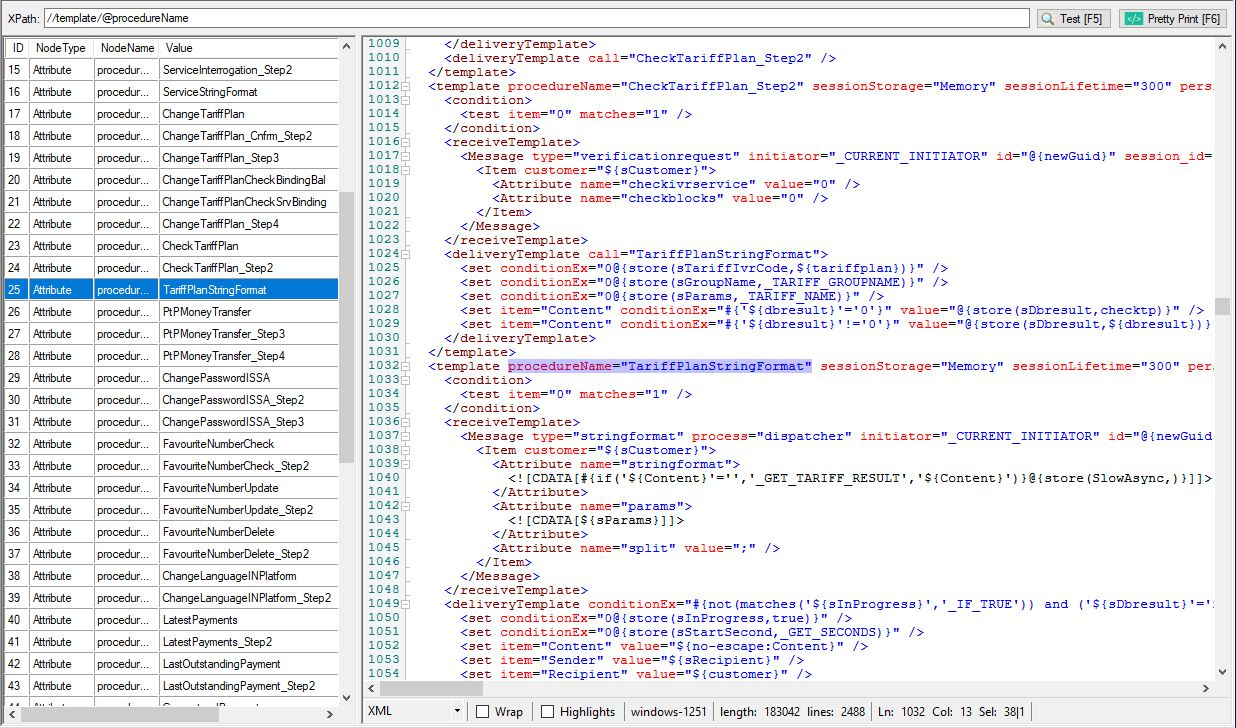
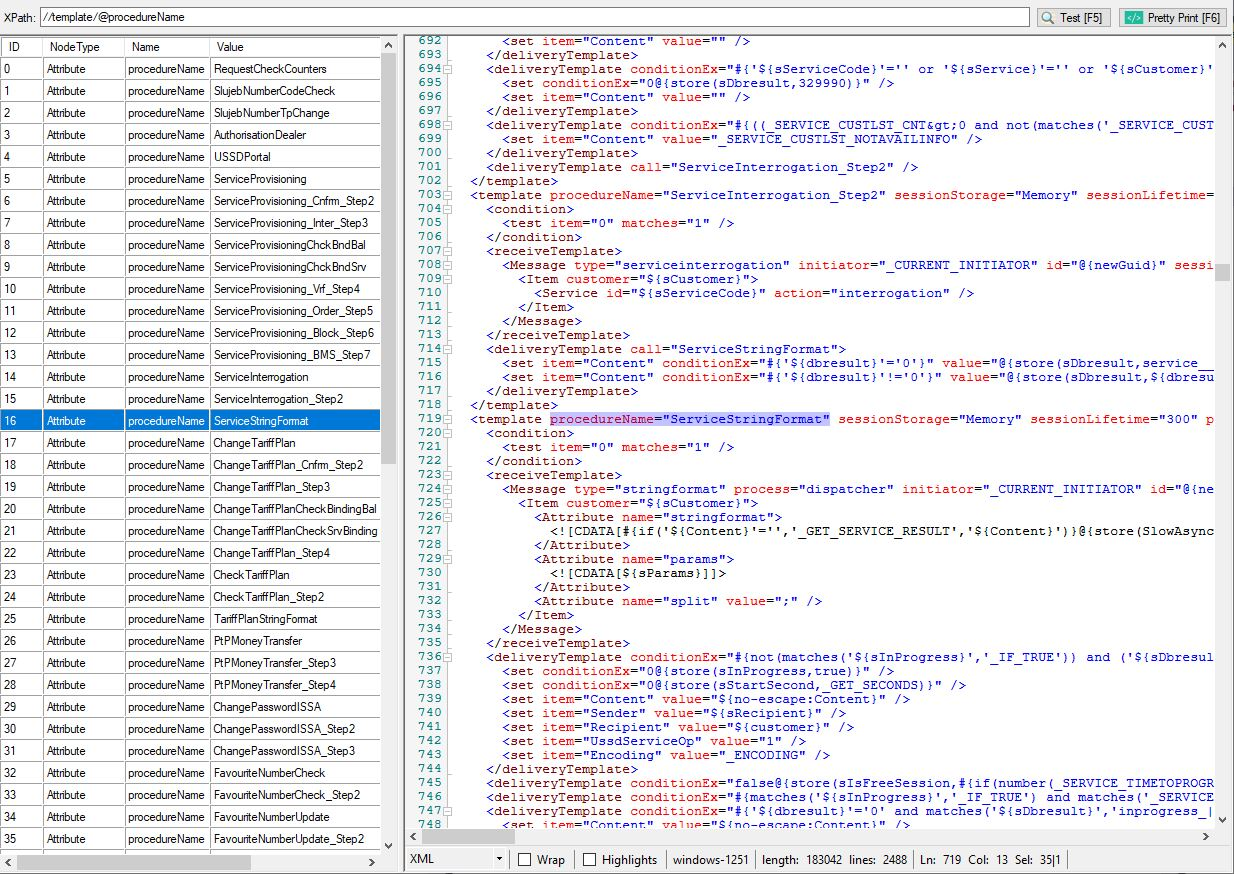
fixed

diff --git a/SPAMassageSaloon/SPAMassageSaloon/AboutWindow.xaml b/SPAMassageSaloon/SPAMassageSaloon/AboutWindow.xaml
@@ -30,7 +30,7 @@
         <Grid.Resources>
             <Style TargetType="Label" x:Key="TopLabel">
                 <Setter Property="FontSize" Value="25"/>
-                <Setter Property="FontFamily" Value="/SPAMassageSaloon;component/Beyond Wonderland.ttf"/>
+                <Setter Property="FontFamily" Value="/SPAMassageSaloon;component/Resources/About/Beyond Wonderland.ttf"/>
                 <Setter Property="Foreground">
                     <Setter.Value>
                         <LinearGradientBrush EndPoint="1,1" StartPoint="0,0">

diff --git a/SPAMassageSaloon/XPathTester/XPathResults.cs b/SPAMassageSaloon/XPathTester/XPathResults.cs
@@ -14,8 +14,8 @@ namespace XPathTester
         [DGVColumn(ColumnPosition.Last, "NodeType")]
         public string NodeType { get; set; }
 
-        [DGVColumn(ColumnPosition.Last, "NodeName")]
-        public string NodeName { get; set; }
+        [DGVColumn(ColumnPosition.Last, "Name")]
+        public string Name { get; set; }
 
         [DGVColumn(ColumnPosition.Last, "Value")]
         public string Value { get; set; }
@@ -41,7 +41,7 @@ namespace XPathTester
                 {
                     ID = result.ID,
                     NodeType = result.NodeType,
-                    NodeName = result.NodeName,
+                    Name = result.NodeName,
                     Value = result.Value,
                     Node = result.Node
                 });

diff --git a/SPAMassageSaloon/SPAMassageSaloon/Properties/Resources.Designer.cs b/SPAMassageSaloon/SPAMassageSaloon/Properties/Resources.Designer.cs
@@ -61,6 +61,16 @@ namespace SPAMassageSaloon.Properties {
         }
         
         /// <summary>
+        ///   Поиск локализованного ресурса типа System.Drawing.Icon, аналогичного (Значок).
+        /// </summary>
+        internal static System.Drawing.Icon about3 {
+            get {
+                object obj = ResourceManager.GetObject("about3", resourceCulture);
+                return ((System.Drawing.Icon)(obj));
+            }
+        }
+        
+        /// <summary>
         ///   Поиск локализованного ресурса типа System.Drawing.Bitmap.
         /// </summary>
         internal static System.Drawing.Bitmap close {

diff --git a/SPAMassageSaloon/SPAMassageSaloon/AboutWindow.xaml.cs b/SPAMassageSaloon/SPAMassageSaloon/AboutWindow.xaml.cs
@@ -1,5 +1,7 @@
 using System.Windows;
+using System.Windows.Media;
 using SPAMassageSaloon.Common;
+using Utils.UIControls;
 
 namespace SPAMassageSaloon
 {
@@ -9,9 +11,17 @@ namespace SPAMassageSaloon
     /// </summary>
     public partial class AboutWindow
     {
+        private static readonly ImageSource IconImage;
+        static AboutWindow()
+        {
+            IconImage = SPAMassageSaloon.Properties.Resources.about3.ToImageSource();
+        }
         public AboutWindow()
         {
             InitializeComponent();
+
+            this.Icon = IconImage;
+
             Loaded += AboutWindow_Loaded;
 
             #region Logs Reader

diff --git a/SPAMassageSaloon/XPathTester/XPathTesterForm.Designer.cs b/SPAMassageSaloon/XPathTester/XPathTesterForm.Designer.cs
@@ -160,11 +160,11 @@ namespace XPathTester
             // 
             // NodeName
             // 
-            this.NodeName.DataPropertyName = "NodeName";
+            this.NodeName.DataPropertyName = "Name";
             this.NodeName.FillWeight = 9.335174F;
-            this.NodeName.HeaderText = "NodeName";
+            this.NodeName.HeaderText = "Name";
             this.NodeName.MinimumWidth = 65;
-            this.NodeName.Name = "NodeName";
+            this.NodeName.Name = "Name";
             this.NodeName.ReadOnly = true;
             this.NodeName.Width = 75;
             // 
